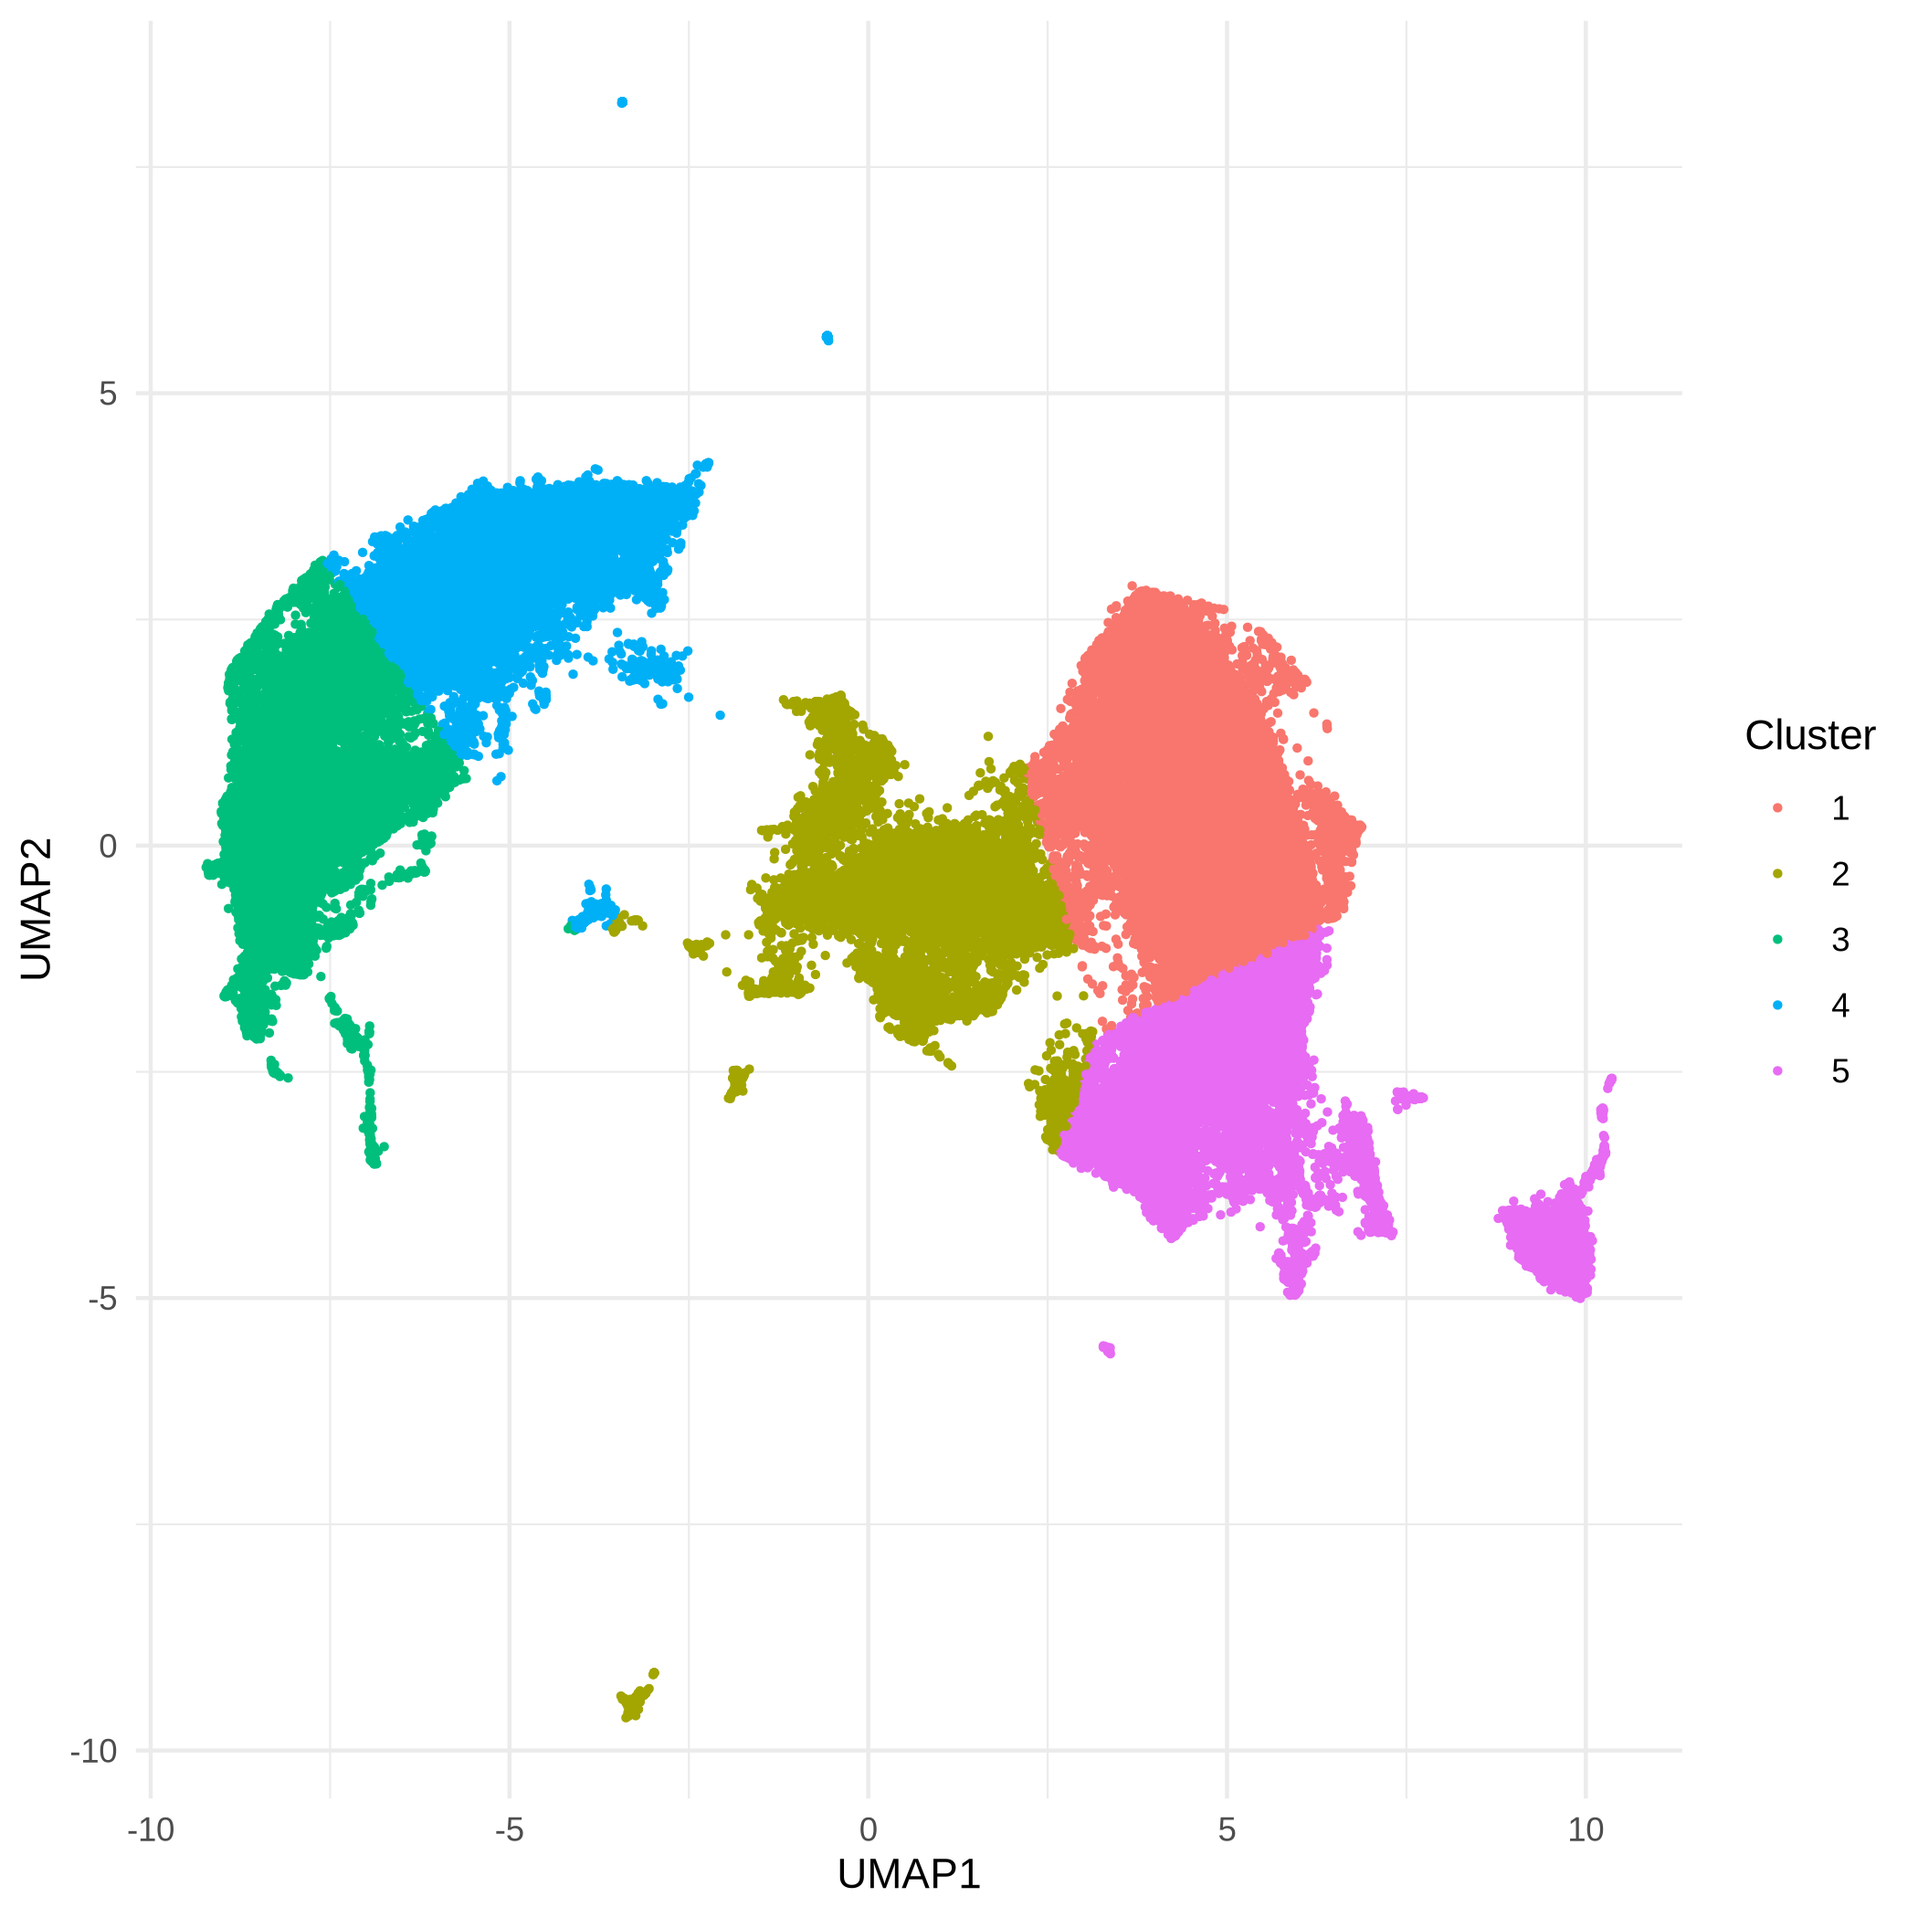
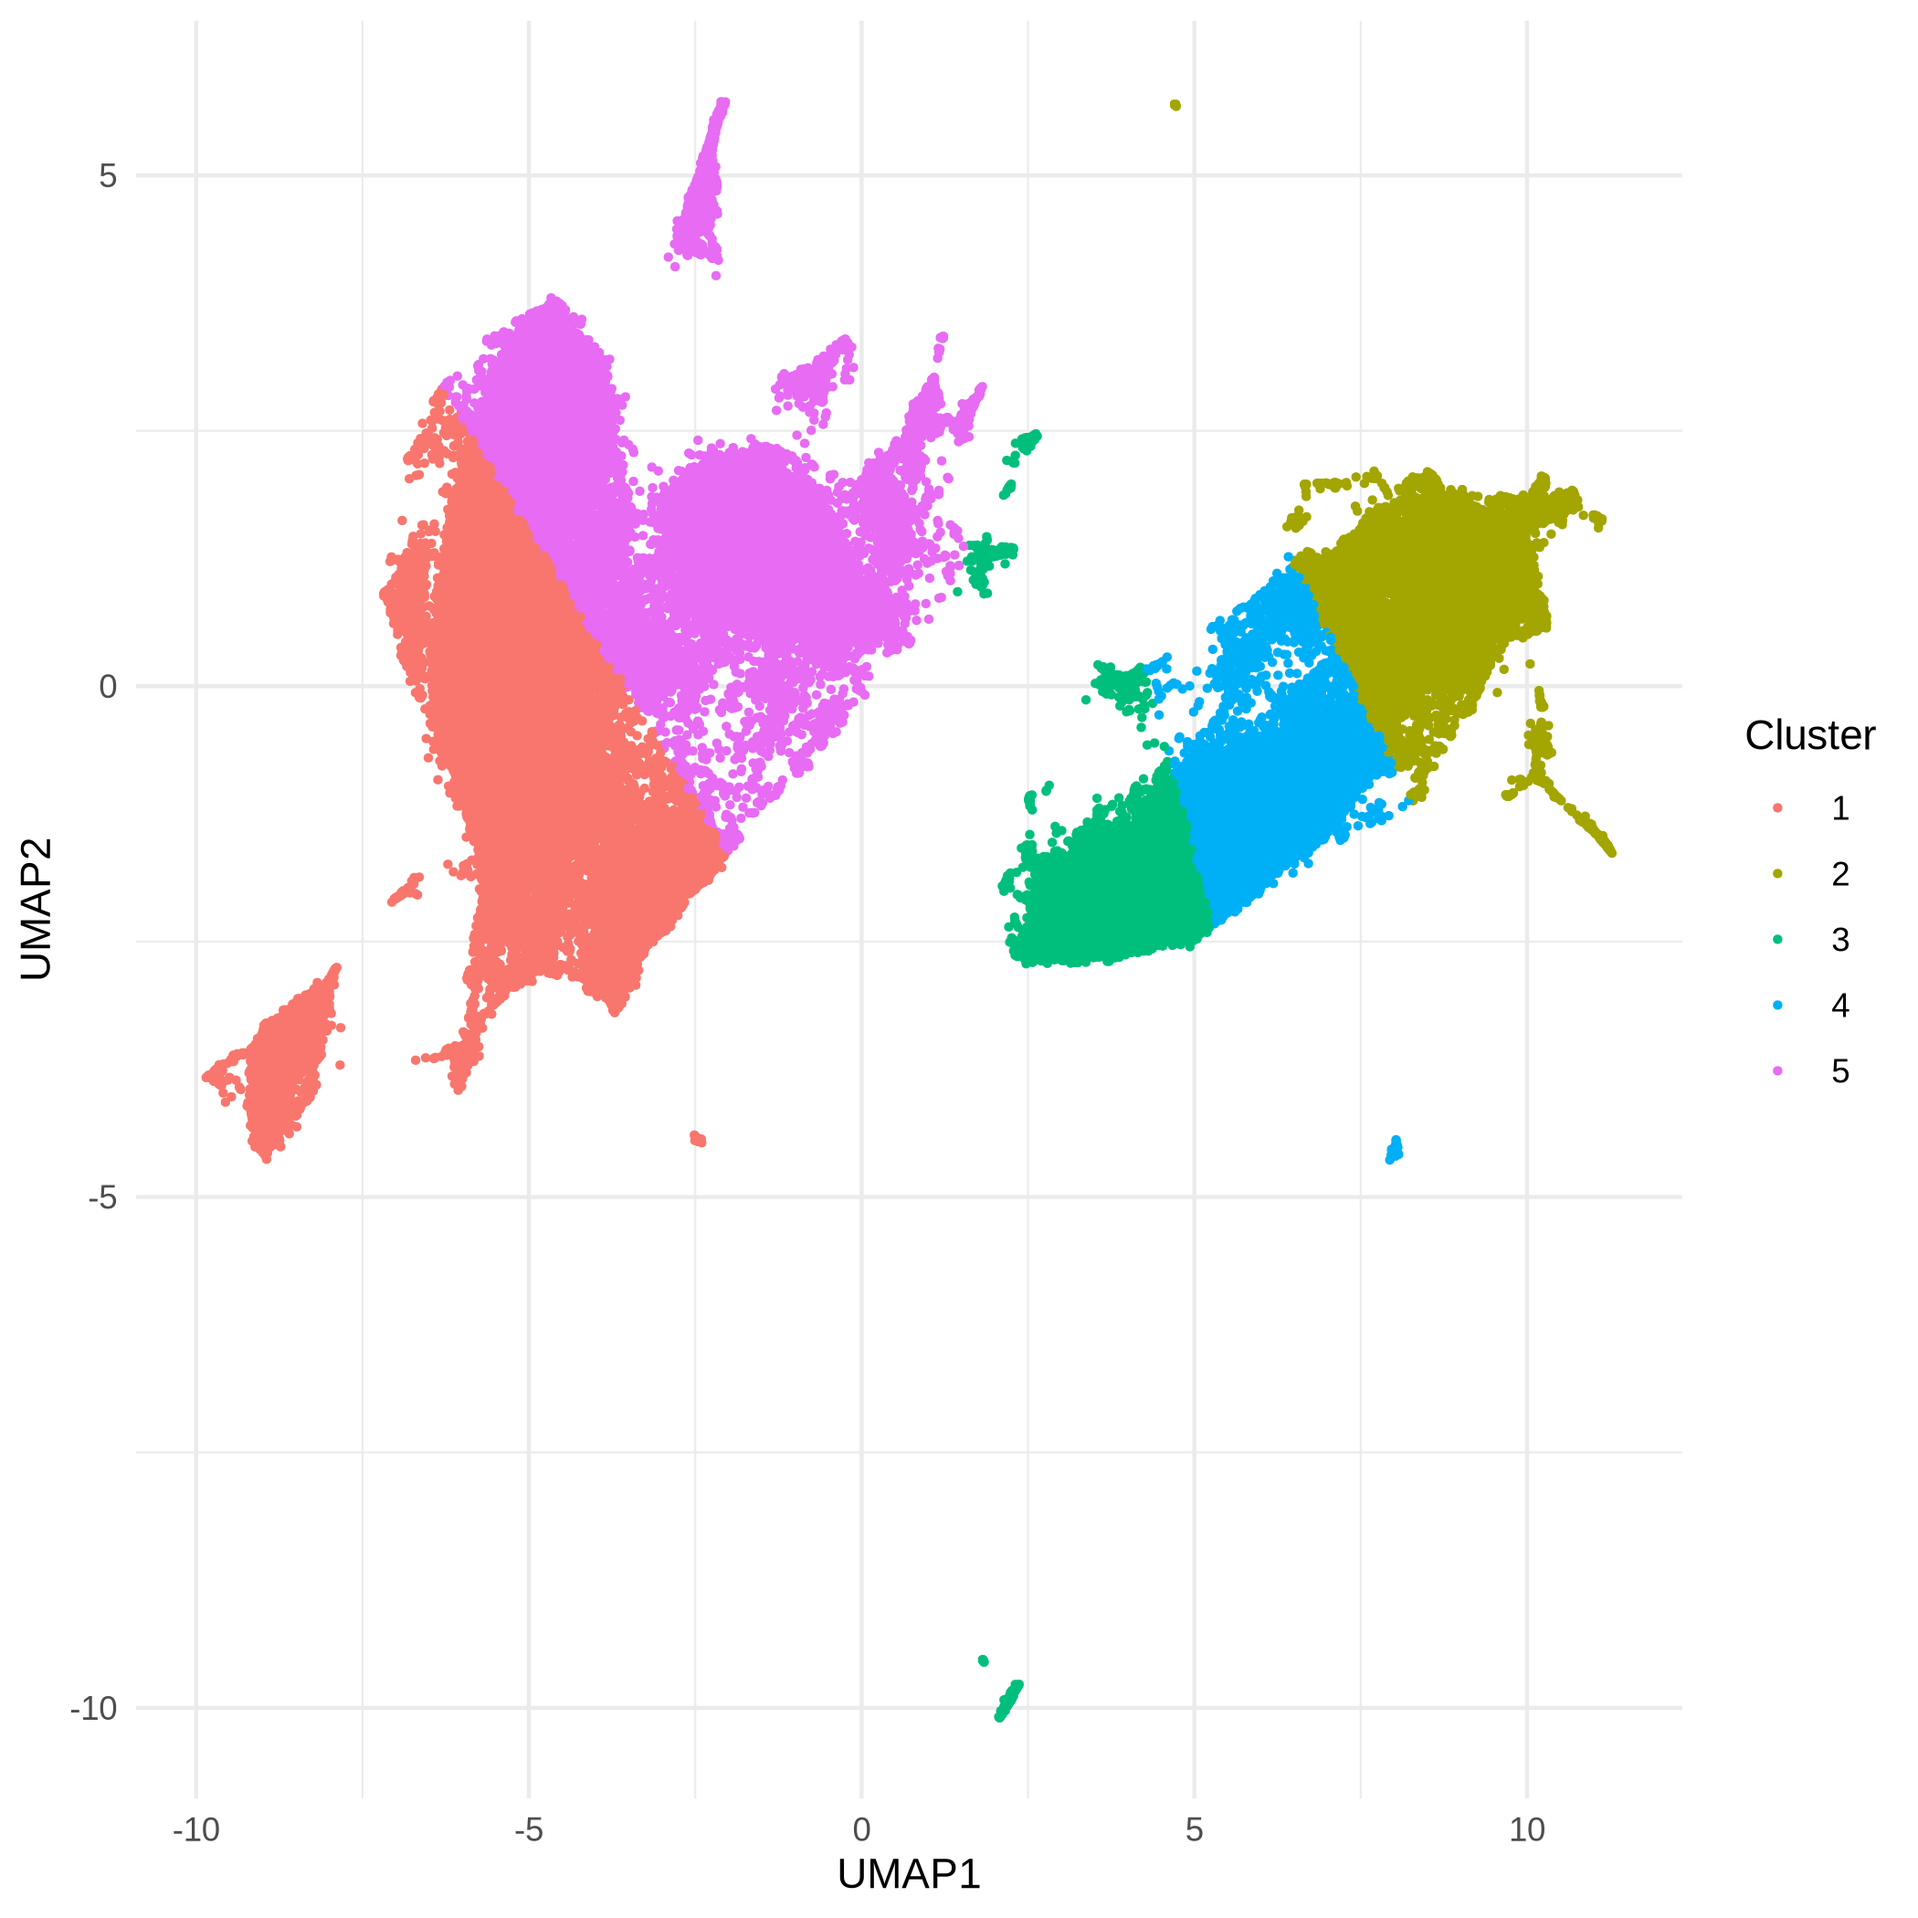
debugging minor differences in kmeans and filtering

diff --git a/scripts/process_fcs.py b/scripts/process_fcs.py
@@ -25,7 +25,7 @@ def main():
         selected = channels_df.loc[channels_df["use"] == 1, "desc"].tolist()
         available_channels = ff.channel_labels()
         present = [ch for ch in selected if ch in available_channels]
-        indices = [available_channels.index(ch) for ch in present]
+        indices = [available_channels.index(ch) for ch in selected]
     else:
         available_channels = ff.channel_labels()
         indices = [i for i, desc in enumerate(available_channels) if
@@ -36,7 +36,7 @@ def main():
 
     umap_res = umap.UMAP(n_components=2).fit_transform(X_asinh)
 
-    km = KMeans(n_clusters=5, random_state=42).fit(X_asinh)
+    km = KMeans(n_clusters=5, random_state=42).fit(umap_res)
 
     new_data = np.hstack([expr, umap_res, km.labels_[:, None]])
 
